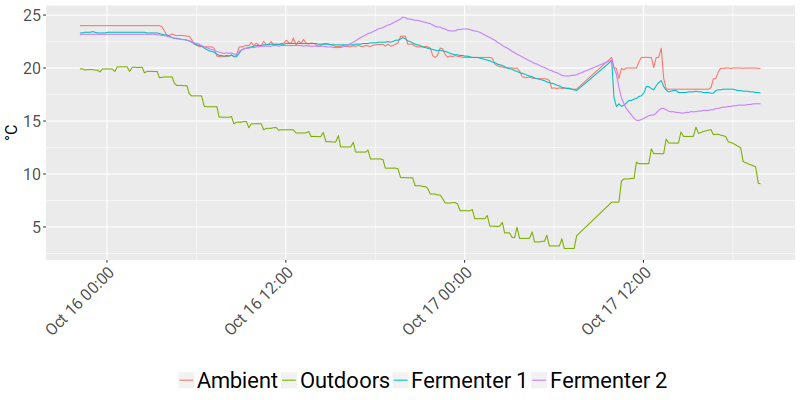
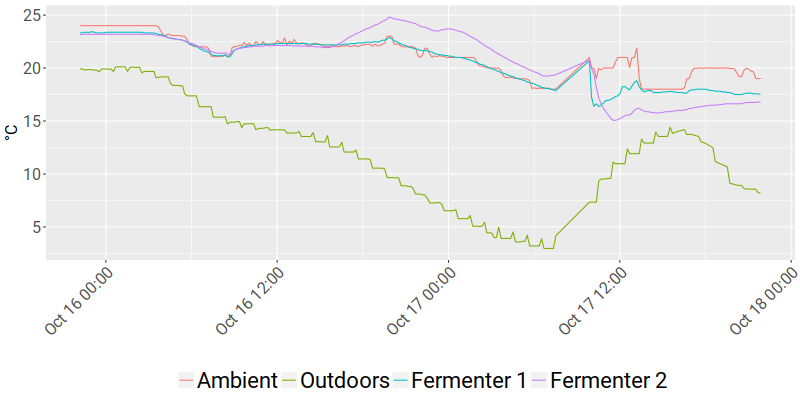
Update live temperature on site

diff --git a/temperature.js b/temperature.js
@@ -1,1 +1,1 @@
-document.write("<h4>Inside Temperature: 19.96°C</h4><h4>Outside Temperature: 9.07°C</h4><h4>Fermenter 1 Temperature: 17.63°C</h4><h4>Fermenter 2 Temperature: 16.63°C</h4><h4>Inside Humidity: 20.04%</h4><h4>Outside Humidity: 60.0%</h4><br>Last update: 2017-10-17 19:51:15");
+document.write("<h4>Inside Temperature: 19.0°C</h4><h4>Outside Temperature: 8.19°C</h4><h4>Fermenter 1 Temperature: 17.5°C</h4><h4>Fermenter 2 Temperature: 16.75°C</h4><h4>Inside Humidity: 21.26%</h4><h4>Outside Humidity: 69.0%</h4><br>Last update: 2017-10-17 21:51:13");
